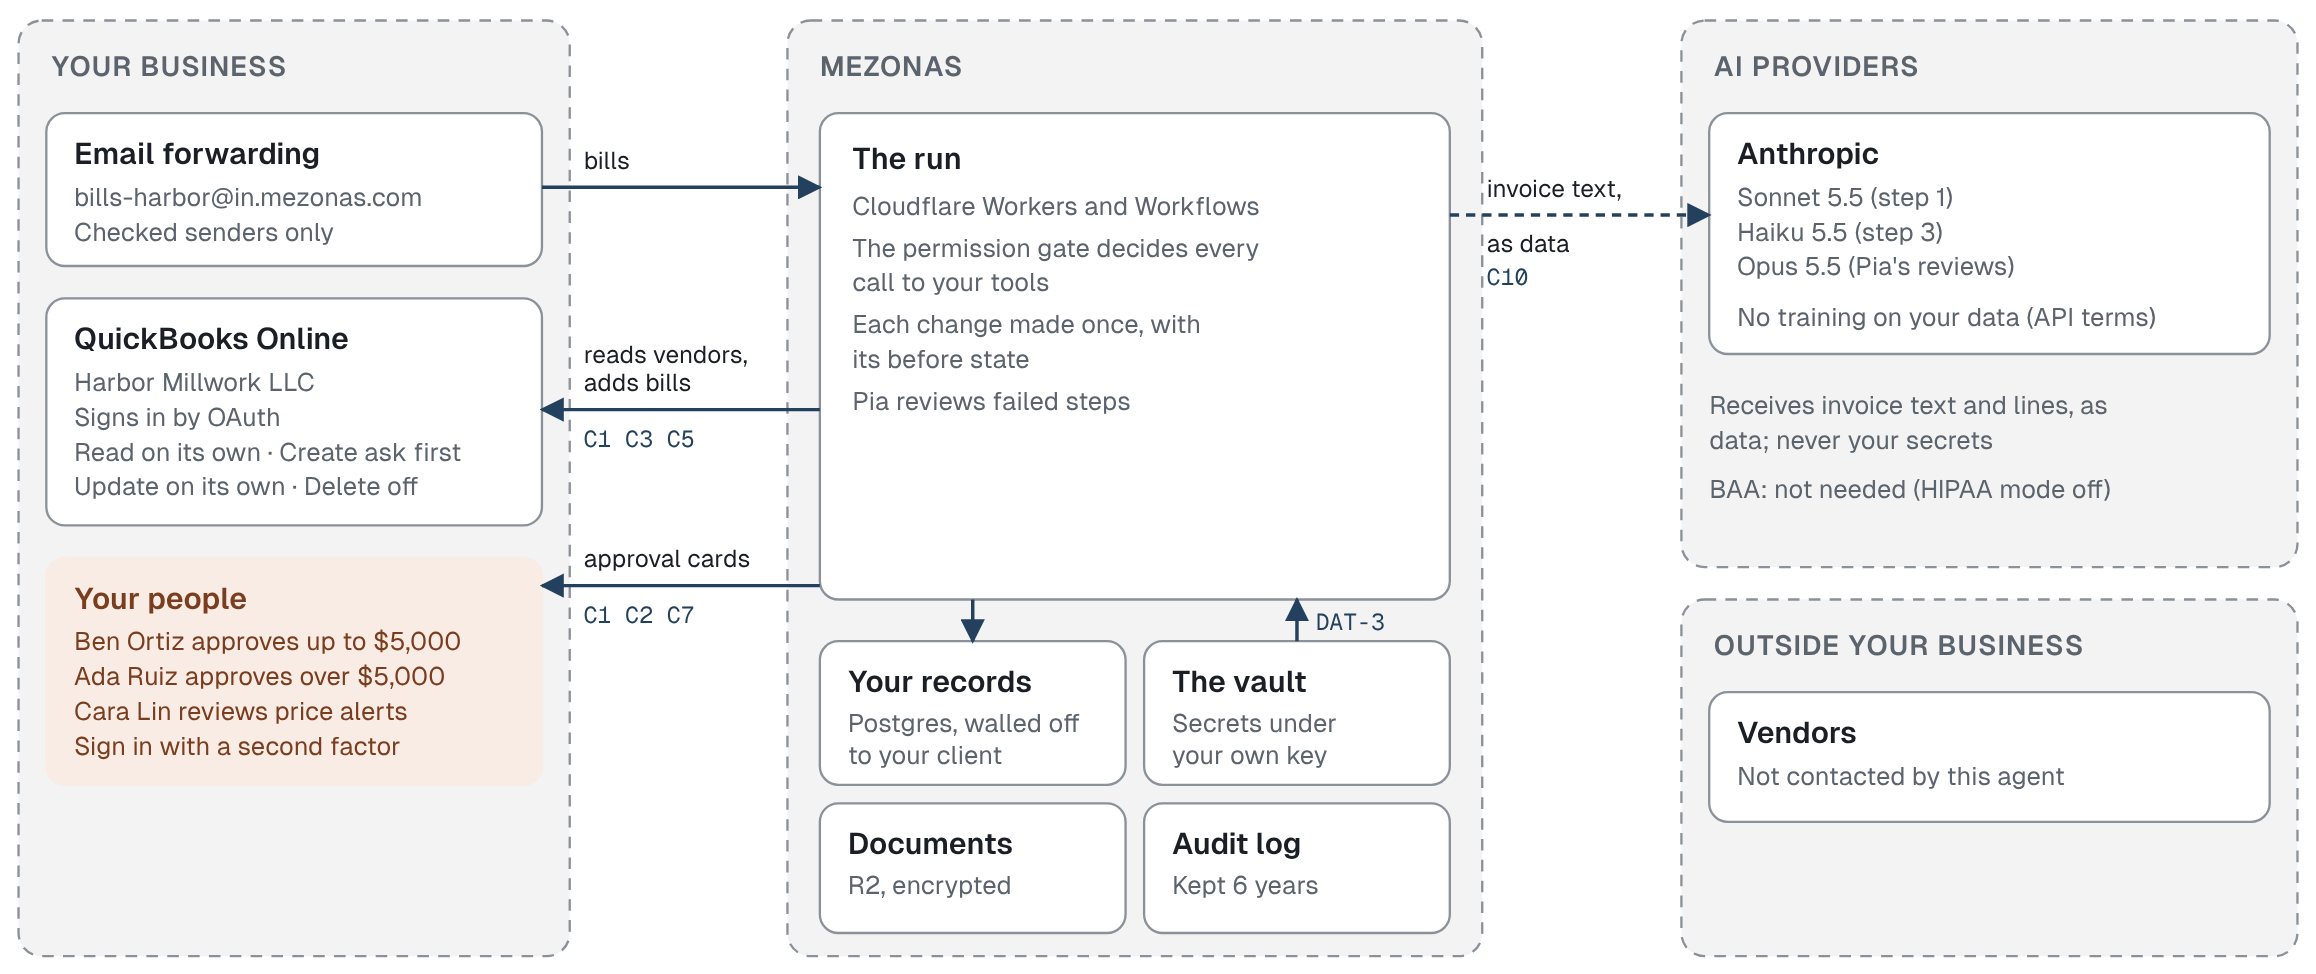
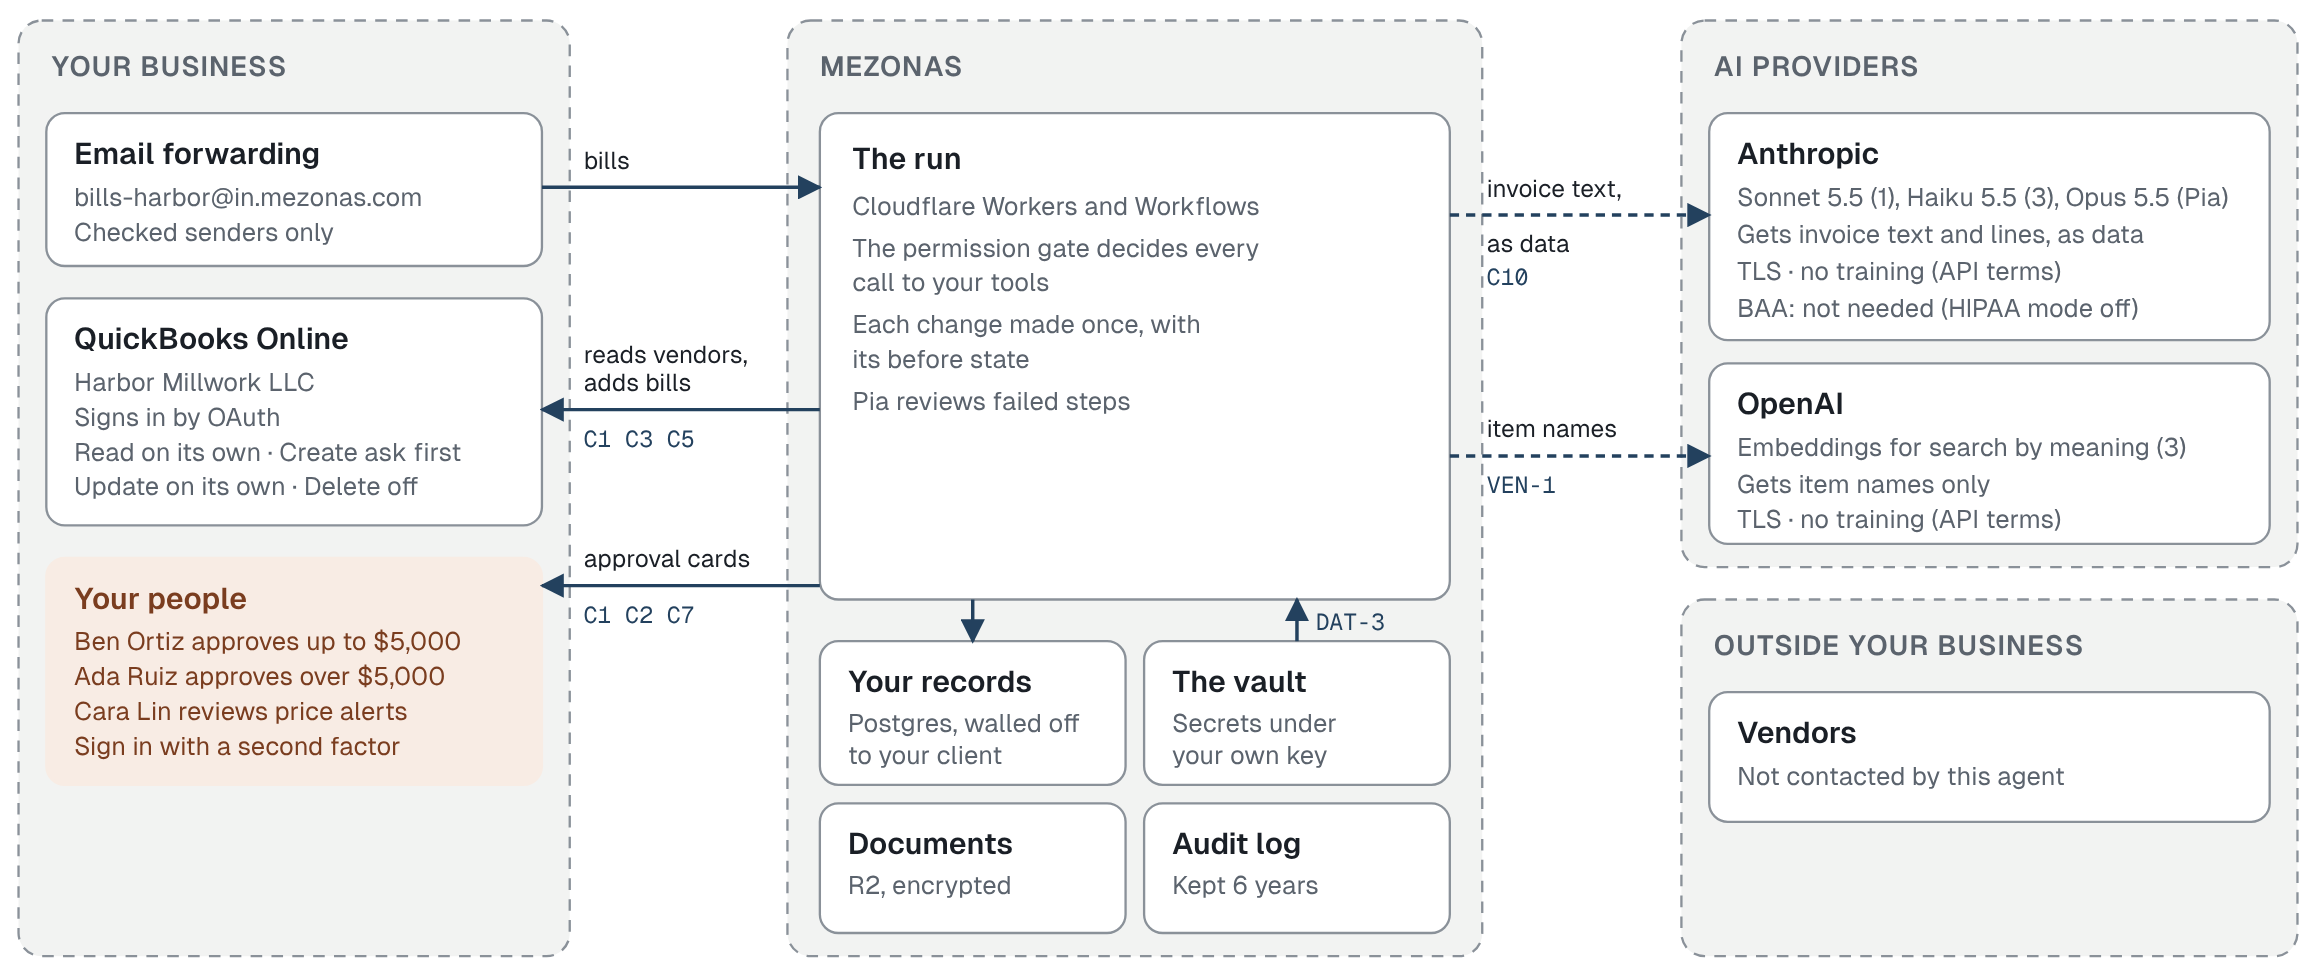
Agent assurance design: every control accounted for, data map, AI and access per tool
Each control that touches an agent is checked for it, inherited from
the platform or not applicable. Adds what the agent pulls and keeps and
where, what goes to which AI provider and how it is protected, and
access to each of the client's tools, with seven more checks. Records
three gaps: stored model calls have no retention line, providers'
retention and region aren't recorded, and Materials embeddings go to
OpenAI.

Claude-Session: https://claude.ai/code/session_01SXdUGEkWKQ6EDFvppzxUte

Changed region(s): [[0.7461, 0.1848, 0.9948, 0.3696], [0.6528, 0.4004, 0.9326, 0.5544]]

diff --git a/docs/design/sop.html b/docs/design/sop.html
@@ -776,15 +776,17 @@
   <text class="t2" x="506" y="385">Kept 6 years</text>
 
   <!-- AI providers -->
-  <rect class="box" x="738" y="48" width="242" height="104" rx="8" />
+  <rect class="box" x="738" y="48" width="242" height="98" rx="8" />
   <text class="t1" x="750" y="70">Anthropic</text>
-  <text class="t2" x="750" y="88">Sonnet 5.5 (step 1)</text>
-  <text class="t2" x="750" y="103">Haiku 5.5 (step 3)</text>
-  <text class="t2" x="750" y="118">Opus 5.5 (Pia's reviews)</text>
-  <text class="t2" x="750" y="140">No training on your data (API terms)</text>
-  <text class="t2" x="738" y="178">Receives invoice text and lines, as</text>
-  <text class="t2" x="738" y="193">data; never your secrets</text>
-  <text class="t2" x="738" y="214">BAA: not needed (HIPAA mode off)</text>
+  <text class="t2" x="750" y="88">Sonnet 5.5 (1), Haiku 5.5 (3), Opus 5.5 (Pia)</text>
+  <text class="t2" x="750" y="104">Gets invoice text and lines, as data</text>
+  <text class="t2" x="750" y="120">TLS · no training (API terms)</text>
+  <text class="t2" x="750" y="136">BAA: not needed (HIPAA mode off)</text>
+  <rect class="box" x="738" y="156" width="242" height="78" rx="8" />
+  <text class="t1" x="750" y="178">OpenAI</text>
+  <text class="t2" x="750" y="196">Embeddings for search by meaning (3)</text>
+  <text class="t2" x="750" y="212">Gets item names only</text>
+  <text class="t2" x="750" y="227">TLS · no training (API terms)</text>
 
   <!-- Outside -->
   <rect class="box" x="738" y="298" width="242" height="56" rx="8" />
@@ -805,6 +807,9 @@
   <text class="label" x="642" y="84">invoice text,</text>
   <text class="label" x="642" y="108">as data</text>
   <text class="ctl" x="642" y="122">C10</text>
+  <path class="flow flow-ai" d="M626 196 H738" />
+  <text class="label" x="642" y="188">item names</text>
+  <text class="ctl" x="642" y="212">VEN-1</text>
   <path class="flow" d="M420 258 V276" />
   <path class="flow" d="M560 276 V258" />
   <text class="ctl" x="568" y="271">DAT-3</text>
@@ -813,9 +818,9 @@
     <p class="small muted" style="margin-top:var(--space-2)">Dashed lines are trust boundaries. C1, C3… are the controls in section 6; DAT-3 and the like are Mezonas' security controls (mezonas.com/security).</p>
 
     <div class="stat-row" style="margin-top:var(--space-5)">
-      <div class="card stat"><div class="small muted">Checks</div><div class="v">15</div></div>
-      <div class="card stat"><div class="small muted">Passed</div><div class="v" style="color:var(--positive)">13</div></div>
-      <div class="card stat"><div class="small muted">Not applicable</div><div class="v">2</div></div>
+      <div class="card stat"><div class="small muted">Checks</div><div class="v">22</div></div>
+      <div class="card stat"><div class="small muted">Passed</div><div class="v" style="color:var(--positive)">19</div></div>
+      <div class="card stat"><div class="small muted">Not applicable</div><div class="v">3</div></div>
       <div class="card stat"><div class="small muted">Last checked</div><div class="v" style="font-size:18px">21 Nov, 03:00</div></div>
     </div>
     <div class="tbl-wrap">
@@ -837,10 +842,61 @@
 <tr class="searchable"><td class="mono">K13</td><td>No sign-in to blocked sites<span class="sub refs">AGT-2</span></td><td><span class="kindtag">Setup</span></td><td><span class="result result--na">Not applicable</span></td><td>It has no browser connection</td><td class="small muted">21 Nov, 03:00</td></tr>
 <tr class="searchable"><td class="mono">K14</td><td>Its version is the one approved<span class="sub refs">AGT-3</span></td><td><span class="kindtag">Setup</span></td><td><span class="result result--pass">Passed</span></td><td>Version 7's stored hash matches; published by Mezonas on 12 Nov</td><td class="small muted">21 Nov, 03:00</td></tr>
 <tr class="searchable"><td class="mono">K15</td><td>Every approval is in the audit log<span class="sub refs">LOG-1</span></td><td><span class="kindtag">Runs</span></td><td><span class="result result--pass">Passed</span></td><td>52 approvals, 52 audit rows</td><td class="small muted">21 Nov, 03:00</td></tr>
+        <tr class="searchable"><td class="mono">K16</td><td>Reads only what it needs<span class="sub refs">DAT-6</span></td><td><span class="kindtag">Setup</span></td><td><span class="result result--pass">Passed</span></td><td>Every tool it may call is used by one of its steps; email forwarding keeps headers and attachments only</td><td class="small muted">21 Nov, 03:00</td></tr>
+<tr class="searchable"><td class="mono">K17</td><td>No secret reaches a model<span class="sub refs">DAT-3 · AGT-2</span></td><td><span class="kindtag">Runs</span></td><td><span class="result result--pass">Passed</span></td><td>412 stored model requests: none holds a value from your vault (matched by fingerprint, never the secret)</td><td class="small muted">21 Nov, 03:00</td></tr>
+<tr class="searchable"><td class="mono">K18</td><td>Only your client's data in its AI calls<span class="sub refs">ISO-1</span></td><td><span class="kindtag">Runs</span></td><td><span class="result result--pass">Passed</span></td><td>412 calls, all from Harbor Millwork's runs</td><td class="small muted">21 Nov, 03:00</td></tr>
+<tr class="searchable"><td class="mono">K19</td><td>Approvers sign in with a second factor<span class="sub refs">ACC-2</span></td><td><span class="kindtag">Runs and setup</span></td><td><span class="result result--pass">Passed</span></td><td>Ben Ortiz, Ada Ruiz: a second factor on every sign-in; both approvals in the period followed one</td><td class="small muted">21 Nov, 03:00</td></tr>
+<tr class="searchable"><td class="mono">K20</td><td>Approvers are current<span class="sub refs">ACC-6</span></td><td><span class="kindtag">Runs</span></td><td><span class="result result--pass">Passed</span></td><td>No approval by anyone removed from your team before it</td><td class="small muted">21 Nov, 03:00</td></tr>
+<tr class="searchable"><td class="mono">K21</td><td>OAuth asks for no more than needed<span class="sub refs">ACC-4</span></td><td><span class="kindtag">Setup</span></td><td><span class="result result--pass">Passed</span></td><td>QuickBooks Online: com.intuit.quickbooks.accounting, the connector's one declared scope</td><td class="small muted">21 Nov, 03:00</td></tr>
+<tr class="searchable"><td class="mono">K22</td><td>Nothing kept past its period<span class="sub refs">LIF-1</span></td><td><span class="kindtag">Runs</span></td><td><span class="result result--na">Not applicable</span></td><td>You are a current client; periods start when a client leaves</td><td class="small muted">21 Nov, 03:00</td></tr>
         </tbody>
       </table>
     </div>
     <p class="small muted" style="margin-top:var(--space-3)">Setup checks read how the agent is set up now. Runs checks read its last 30 days. Attack checks run planted inputs through a copy of it on test data, which never writes and never reaches a person.</p>
+    <h3 style="margin:var(--space-8) 0 var(--space-1)">Every control, accounted for</h3>
+    <p class="small muted" style="margin-bottom:var(--space-3)">Each Mezonas security control that touches this agent's work, in one of three states.</p>
+    <div class="two">
+      <div class="card role"><h3><span class="result result--pass">Checked for this agent</span> 14</h3><p class="small muted" style="margin-top:6px">AGT-1, AGT-2, AGT-3, AGT-4, ACC-2, ACC-4, ACC-6, DAT-3, DAT-6, ISO-1, ISO-2, VEN-1, VEN-3, LOG-1: by the checks above.</p></div>
+      <div class="card role"><h3><span class="kindtag">Inherited from the platform</span> 22</h3><p class="small muted" style="margin-top:6px">The same for every agent, shown with their status at mezonas.com/security: DAT-1 TLS 1.2+ in transit, DAT-2 AES-256 at rest, DAT-4, ACC-1, ACC-3, ISO-3, LOG-2, LOG-3, CHG-1 to CHG-8, BCK-1, BCK-2, INC-1, LIF-2.</p></div>
+      <div class="card role"><h3><span class="result result--na">Not applicable</span> 2</h3><p class="small muted" style="margin-top:6px">DAT-5: it takes no card payments. LIF-1: checked when a client leaves.</p></div>
+    </div>
+
+    <h3 style="margin:var(--space-8) 0 var(--space-1)">Data: what it pulls, what it keeps, and where</h3>
+    <p class="small muted" style="margin-bottom:var(--space-3)">Field names, never values. At rest everything is encrypted (AES-256); in transit, TLS 1.2 or later.</p>
+    <div class="tbl-wrap"><table>
+      <thead><tr><th>Data</th><th>Pulled from</th><th>Kept where</th><th>Kept for</th><th>Who can see it</th></tr></thead>
+      <tbody>
+        <tr><td>Bill PDFs<span class="sub">file, sender, subject</span></td><td>Email forwarding</td><td>Your documents (R2)</td><td>While you're a client; deleted 30 days after you leave</td><td>Your team; Mezonas operators who serve you</td></tr>
+        <tr><td>What was read from each bill<span class="sub">vendor, number, date, lines, totals</span></td><td>The bill, read by AI (step 1)</td><td>Your records (Postgres at Neon, US)</td><td>As above</td><td>As above</td></tr>
+        <tr><td>Vendors<span class="sub">id, name, tax id, terms</span></td><td>QuickBooks Online</td><td>Your records, a synced copy</td><td>As above</td><td>As above</td></tr>
+        <tr><td>Catalog matches and prices<span class="sub">item, vendor item, unit, price</span></td><td>The bills and your contracts</td><td>Your records: Purchasing</td><td>As above</td><td>As above</td></tr>
+        <tr><td>Each run's step results</td><td>The run</td><td>Your records, with the run's history</td><td>As above</td><td>Your team sees summaries; operators see the run</td></tr>
+        <tr><td>AI requests and answers</td><td>The run</td><td>Your documents' store (R2, model-calls)</td><td><b>Not yet in the retention policy</b> (to add)</td><td>Mezonas operators who serve you</td></tr>
+        <tr><td>Bills created in QuickBooks</td><td>Step 6</td><td>Your QuickBooks; what changed, with its before state, in your records</td><td>In QuickBooks as you keep it; the change record as above</td><td>Your team; operators</td></tr>
+      </tbody>
+    </table></div>
+
+    <h3 style="margin:var(--space-8) 0 var(--space-1)">What goes to AI, and how it is protected</h3>
+    <div class="tbl-wrap"><table>
+      <thead><tr><th>Used for</th><th>Provider and model</th><th>What is sent</th><th>Protection</th><th>Kept by the provider</th></tr></thead>
+      <tbody>
+        <tr><td>Step 1, Read the bill</td><td>Anthropic, Claude Sonnet 5.5</td><td>The bill's text and pages, as data</td><td>TLS; never your secrets or another client's data; no training</td><td>Per its API terms (<b>to record</b>)</td></tr>
+        <tr><td>Step 3, lines the rules can't place</td><td>Anthropic, Claude Haiku 5.5</td><td>Those lines and candidate items</td><td>As above</td><td>As above</td></tr>
+        <tr><td>Step 3, search by meaning</td><td>OpenAI, embeddings</td><td>Item names only</td><td>As above</td><td>Per its API terms (<b>to record</b>)</td></tr>
+        <tr><td>Pia's reviews</td><td>Anthropic, Claude Opus 5.5</td><td>A failed step's input and output</td><td>As above</td><td>As above</td></tr>
+      </tbody>
+    </table></div>
+
+    <h3 style="margin:var(--space-8) 0 var(--space-1)">Access to each of your tools</h3>
+    <div class="tbl-wrap"><table>
+      <thead><tr><th>Tool</th><th>Signs in by</th><th>The credential</th><th>The agent may</th><th>Who may change it</th></tr></thead>
+      <tbody>
+        <tr><td>QuickBooks Online<span class="sub">Connected by Ada Ruiz, 4 Nov · last used today</span></td><td>OAuth; scope com.intuit.quickbooks.accounting</td><td>In the vault, encrypted with your key, given to one step at a time; never shown or sent to AI. Disconnecting deletes and revokes it</td><td>Read on its own · Create ask first · Update on its own · Delete off (the stricter of your setting and its access)</td><td>Ada Ruiz (your admin); our changes only as you allow</td></tr>
+        <tr><td>Email forwarding<span class="sub">Your address since 4 Nov</span></td><td>Your mail server forwards; senders checked</td><td>None</td><td>Receive only</td><td>Your admin</td></tr>
+        <tr><td>Your people<span class="sub">Ben Ortiz, Ada Ruiz, Cara Lin</span></td><td>WorkOS with a second factor; sessions end after 30 minutes idle</td><td>None kept by us</td><td>Approve and answer as section 3 says</td><td>Your admin, on Team</td></tr>
+      </tbody>
+    </table></div>
+
   </section>
 </main>
 

diff --git a/docs/agent-assurance-plan.md b/docs/agent-assurance-plan.md
@@ -83,6 +83,97 @@ A check that has nothing to look at (no writes in the period) says "Not applicab
 result is **Passed**, **Failed** or **Not applicable**, with its evidence: counts and the ids of the
 records it read, never their contents (invariant 13: no secrets, no message bodies).
 
+## 4a. Every control accounted for (owner, 2026-11-21: "Are all controls highlighted?")
+
+Not with §4 alone: it checks the controls that differ per agent. Every control in the register that
+touches an agent's work is now listed for each agent, in one of three states, so none is missing:
+
+| State | Meaning | Examples |
+|---|---|---|
+| **Checked for this agent** | A check of §4 or §4b proves it for this agent, with evidence | AGT-1 to AGT-4, ACC-4, DAT-3, ISO-1, ISO-2, VEN-1, VEN-3, LOG-1, DAT-6, ACC-2 (its approvers) |
+| **Inherited from the platform** | It holds the same way for every agent; shown with the register's status and its evidence, never re-checked per agent | DAT-1 (TLS 1.2+ in transit), DAT-2 (AES-256 at rest), DAT-4, ACC-1, ACC-3, ISO-3, LOG-2, LOG-3, CHG-1 to CHG-8, BCK-1, BCK-2, INC-1, GOV-1 to GOV-6, LIF-1, LIF-2 |
+| **Not applicable** | Says why | DAT-5 (it takes no card payments), a browser check for an agent with no browser connection |
+
+A core test holds the list to the register: a new register control in the areas agents touch
+(`agents`, `isolation`, `data`, `access`, `logging`, `vendors`, `lifecycle`) must be placed in one
+state, or the test fails.
+
+## 4b. Data, AI and access, per agent (owner, 2026-11-21)
+
+Three more parts, made by code from the same inputs, each with the checks that prove it.
+
+**What data it pulls, what it stores, and where.** One row per kind of data the agent touches:
+
+| Column | From |
+|---|---|
+| What (a record type and its fields) | The tool's `entity` and the top-level fields of its output schema (`ToolSpec.output`), never values |
+| Pulled from | The system and connection (QuickBooks Online, Harbor Millwork LLC), or your documents |
+| Stored where | Your records (Postgres at Neon, the region named), your documents (R2), a run's step results (`step_run`, kept with the run's history), the model calls' stored copies (R2, `tenants/<client>/model-calls/`), or not stored |
+| Encrypted | At rest AES-256 (Neon, R2); secrets also under your client's own key; in transit TLS 1.2+ |
+| Kept | The retention policy's period for that kind (`docs/policies/data-retention.md` §3) |
+| Who can see it | Your roles (admin, users, limited users by agent), and Mezonas' operators who serve you |
+
+Checks: **Reads only what it needs** (DAT-6: every tool it can call is one its steps use; email
+connections sync only their query, invariant 12); **Nothing kept past its period** (LIF-1: none of
+its stored rows or files is older than its kind's retention for a retired client).
+
+**What goes to AI, and how it is protected.** One row per AI use, from the agent's AI steps, the
+area owner's reviews, and the tools that call a model inside (the Materials pack's search by
+meaning sends item names to OpenAI's embeddings; `EMBEDDING_FEATURE`):
+
+| Column | From |
+|---|---|
+| Step and model | The step and `runModel`; embeddings by their feature |
+| Provider | `processorForModel`, with what it receives (`PROCESSOR_RECEIVES`) |
+| What is sent | The step's input fields (its skill's input schema), document text as data, never secrets, never other clients' data |
+| In transit | TLS to the provider's API |
+| Kept by the provider | Its API terms, per provider: how long, where, no training (§9, gaps) |
+| Kept by us | Each call's request and answer in R2 (`model-calls/`), encrypted at rest, with the run |
+| HIPAA | A BAA recorded (`BAA_PROCESSORS`), or refused in HIPAA mode |
+
+Checks: **AI providers allowed for you** (§4, now including embeddings); **No secret reaches a
+model** (the stored requests of the period hold no value from the client's vault; checked by
+matching each secret's fingerprint, never the secret); **Only this client's data in its calls**
+(every stored call of the period belongs to runs of this client).
+
+**Access to each tool.** One block per connection, and one for people:
+
+| For each connection | From |
+|---|---|
+| How it signs in | The connector's auth: OAuth and the scopes we ask for (QuickBooks: accounting), an API key, a browser login kept in the vault, a signed webhook |
+| Where the credential is | The vault, encrypted with your client's key, write-only, given to tool code for one step; never shown, logged or sent to a model |
+| Who connected it, when, last used | `connection.connected_by`, its change history, its last call |
+| What the agent may do | Per verb and record type: the connection's setting, the agent's grant, the stricter of the two |
+| Who may change that | Your admin; our changes only as you allow ("Changes by Mezonas") |
+| What disconnecting does | Stops access at once, deletes the token, revokes it at the provider |
+
+| For people | From |
+|---|---|
+| Who sees this agent and its runs | Roles; limited users by their agent list |
+| Who may approve its changes | Approvers by step and rule; `can_sign` |
+| How they sign in | A second factor on every sign-in (ACC-2), sessions that end (ACC-3) |
+
+Checks: **Approvers sign in with a second factor** (ACC-2: everyone who approved in the period, and
+every current approver, has a second factor); **Approvers are current** (ACC-6: no approval in the
+period by someone removed before it); **OAuth asks for no more than needed** (each connection's
+granted scopes are the connector's declared ones); **Connections in use only** (no binding to a
+connection no step uses).
+
+## 4c. Gaps this found
+
+Writing this plan against the code found three things to settle before the checks can pass
+honestly. Each is a task, not a design choice:
+
+1. **Our stored model calls and step results have no retention line.** Model-call requests and
+   answers (R2, `model-calls/`) and step outputs (`step_run`) are kept with run history, but the
+   retention policy's table names neither. Add them, with a period.
+2. **Providers' own retention and region aren't recorded.** The policy says "as its API terms
+   state". Record, per provider, how long it keeps API data, where, and whether zero retention is
+   on, beside `PROCESSOR_RECEIVES`, so the AI section can say it.
+3. **The embeddings provider differs from the agent's model.** A Materials agent on Claude still
+   sends item names to OpenAI. The SOP's data section and the AI section must name it; today the
+   SOP lists only the steps' models.
+
 ## 5. Where it shows
 
 | Who | Where | What |
@@ -122,7 +213,8 @@ Each ends green (`pnpm check`). The migration goes in its own PR.
 
 | Stream | What | Migration |
 |---|---|---|
-| **A1: the architecture** | Core `agentArchitecture`, the SVG diagram in the web, section 14 of the SOP (diagram only) | None |
+| **A0: the gaps** | §4c: the retention lines, providers' retention and region, the embeddings provider in the SOP | None |
+| **A1: the architecture** | Core `agentArchitecture`, the SVG diagram, the data map, what goes to AI and access to each tool (§4b), the coverage list (§4a), section 14 of the SOP | None |
 | **A2a: results' table** | `control_check` | Own PR |
 | **A2: setup and run checks** | The checks of §4 that read setup and runs; nightly pass; the back office's Security tab; "Checked" on the SOP's controls; failures as issues | After A2a |
 | **A3: attacks** | Planted cases in the test bench, their pass rules, before-trial and monthly runs; recorded fixtures with a key | None (test cases have a home) |
